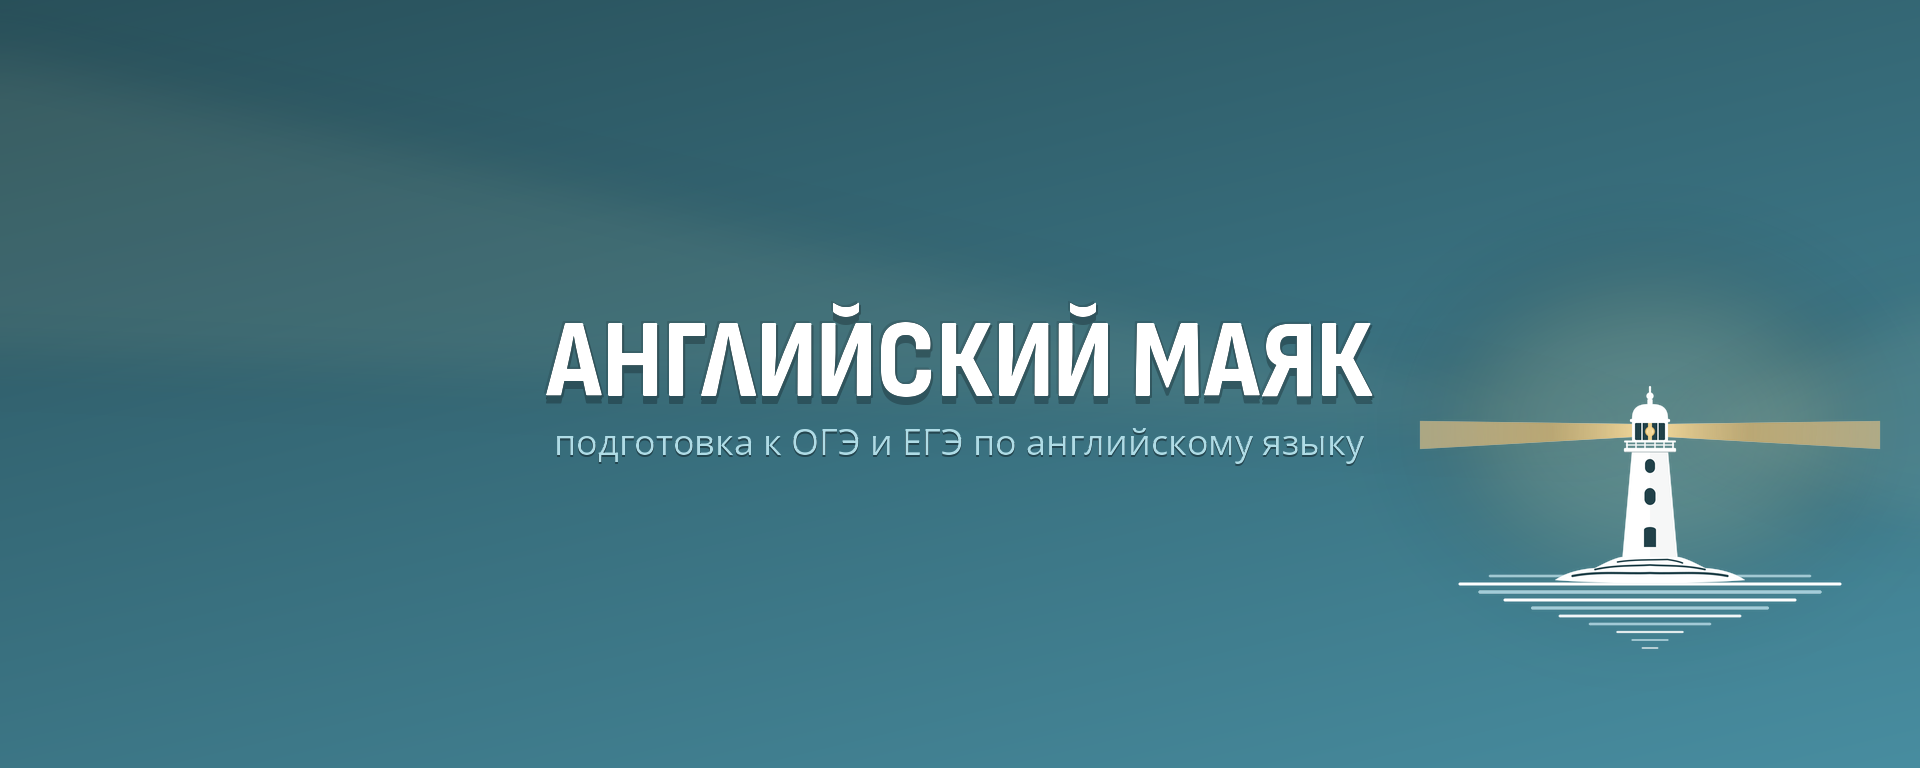
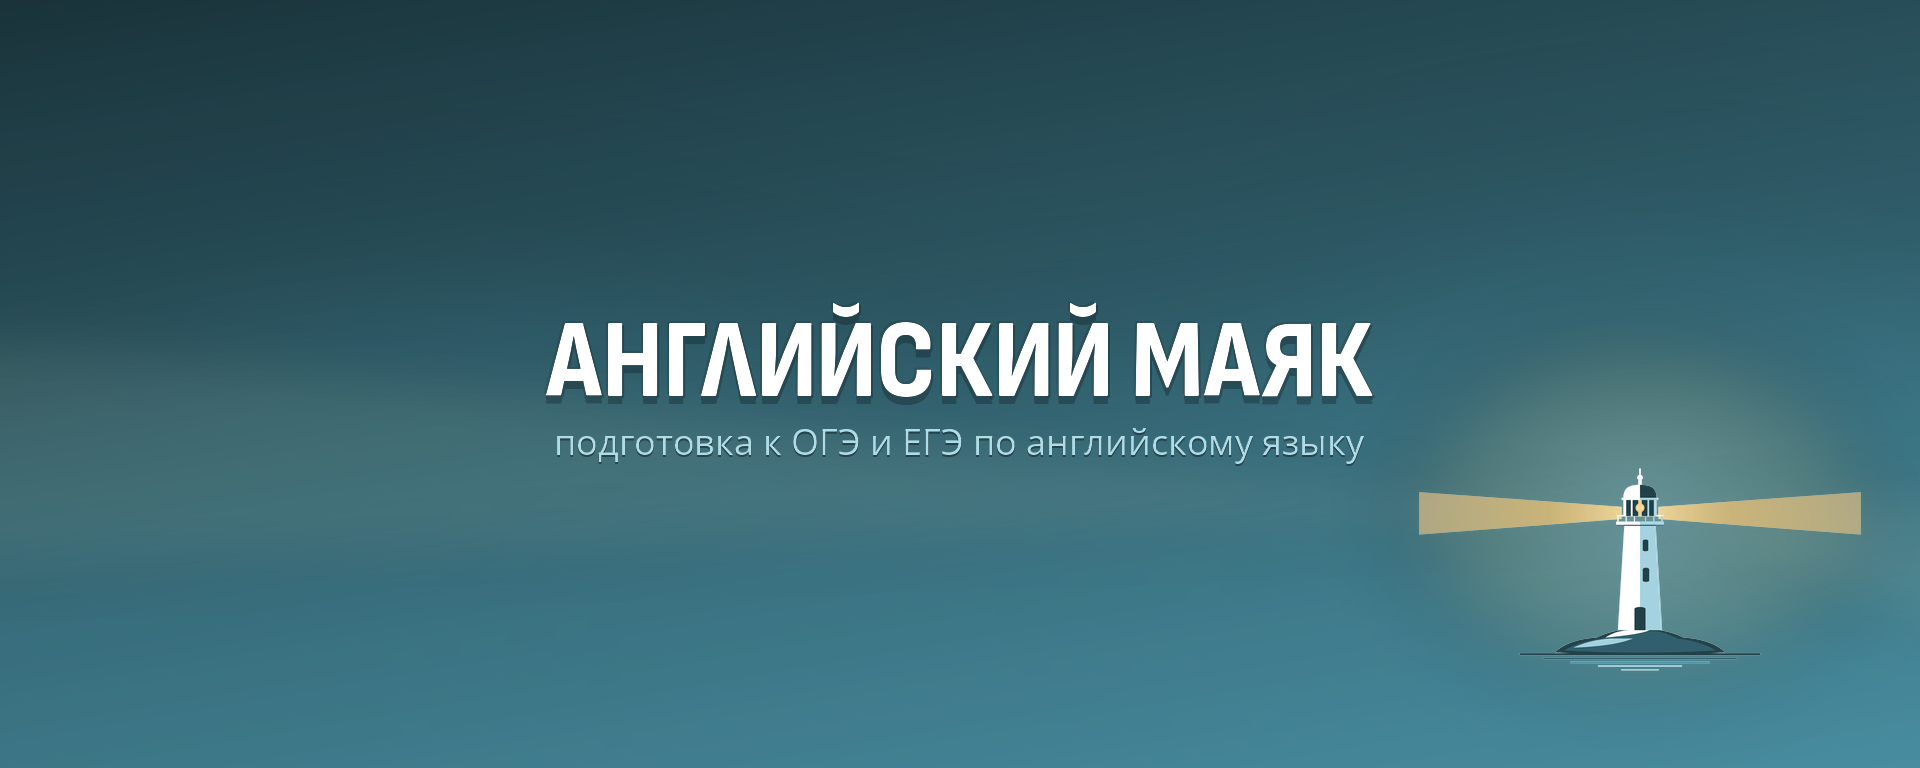
Точная векторная реконструкция маяка из дизайнерского логотипа и генерация обложки ВК

diff --git a/generate_final_cover.py b/generate_final_cover.py
@@ -4,202 +4,81 @@ import numpy as np
 from PIL import Image, ImageDraw, ImageFont, ImageFilter
 import cairosvg
 
-def create_pure_original_lighthouse_svg():
-    """
-    Exact vector SVG of the lighthouse matching the attached image:
-    - Pure white lighthouse tower (#FFFFFF) with dark navy windows/doors (#214149)
-    - Gold expanding light beams (#F3D593 -> #C19B4F)
-    - Pure white rocky island (#FFFFFF) with dark contour lines (#214149)
-    - Water ripples below (#A5D2DF and #FFFFFF)
-    - No external circle border
-    """
-    svg = '''<svg xmlns="http://www.w3.org/2000/svg" viewBox="0 0 1000 1000" width="1000" height="1000">
-  <defs>
-    <linearGradient id="goldBeamL" x1="470" y1="385" x2="50" y2="395" gradientUnits="userSpaceOnUse">
-      <stop offset="0%" stop-color="#F3D593" stop-opacity="0.95" />
-      <stop offset="40%" stop-color="#C19B4F" stop-opacity="0.80" />
-      <stop offset="100%" stop-color="#C19B4F" stop-opacity="0.65" />
-    </linearGradient>
-
-    <linearGradient id="goldBeamR" x1="530" y1="385" x2="950" y2="395" gradientUnits="userSpaceOnUse">
-      <stop offset="0%" stop-color="#F3D593" stop-opacity="0.95" />
-      <stop offset="40%" stop-color="#C19B4F" stop-opacity="0.80" />
-      <stop offset="100%" stop-color="#C19B4F" stop-opacity="0.65" />
-    </linearGradient>
-
-    <radialGradient id="lanternCore" cx="50%" cy="50%" r="50%">
-      <stop offset="0%" stop-color="#FFFFFF" />
-      <stop offset="30%" stop-color="#FFF2CE" />
-      <stop offset="70%" stop-color="#F3D593" />
-      <stop offset="100%" stop-color="#C19B4F" />
-    </radialGradient>
-  </defs>
-
-  <g id="lighthouse_pure">
-    <!-- Golden Light Beams (expanding trapezoids) -->
-    <polygon points="465,372 40,366 40,422 465,398" fill="url(#goldBeamL)" />
-    <polygon points="535,372 960,366 960,422 535,398" fill="url(#goldBeamR)" />
-
-    <!-- Water Ripples -->
-    <g stroke-linecap="round">
-      <line x1="180" y1="676" x2="820" y2="676" stroke="#A5D2DF" stroke-width="4.5" opacity="0.75" />
-      <line x1="120" y1="692" x2="880" y2="692" stroke="#FFFFFF" stroke-width="5.5" opacity="0.95" />
-      <line x1="160" y1="708" x2="840" y2="708" stroke="#A5D2DF" stroke-width="6" opacity="0.85" />
-      <line x1="210" y1="724" x2="790" y2="724" stroke="#FFFFFF" stroke-width="5.5" opacity="0.95" />
-      <line x1="265" y1="740" x2="735" y2="740" stroke="#A5D2DF" stroke-width="5.5" opacity="0.85" />
-      <line x1="320" y1="756" x2="680" y2="756" stroke="#FFFFFF" stroke-width="5" opacity="0.9" />
-      <line x1="380" y1="772" x2="620" y2="772" stroke="#A5D2DF" stroke-width="4.5" opacity="0.8" />
-      <line x1="435" y1="788" x2="565" y2="788" stroke="#FFFFFF" stroke-width="4" opacity="0.85" />
-      <line x1="465" y1="804" x2="535" y2="804" stroke="#A5D2DF" stroke-width="3.5" opacity="0.7" />
-      <line x1="485" y1="820" x2="515" y2="820" stroke="#FFFFFF" stroke-width="3" opacity="0.6" />
-    </g>
-
-    <!-- Rocky Island Silhouette (Solid Pure White) -->
-    <path d="M 310 684
-             C 330 670, 360 662, 390 660
-             C 410 650, 425 642, 442 638
-             L 558 638
-             C 575 642, 590 650, 610 660
-             C 640 662, 670 670, 690 684
-             C 610 692, 390 692, 310 684 Z"
-          fill="#FFFFFF" />
-
-    <!-- Rock Inner Crevice / Shadow Lines (#214149) -->
-    <path d="M 345 676 C 395 666, 450 672, 500 670 C 550 672, 605 666, 655 676" stroke="#214149" stroke-width="4.5" fill="none" stroke-linecap="round"/>
-    <path d="M 390 663 C 430 654, 470 656, 500 654 C 530 656, 570 654, 610 663" stroke="#214149" stroke-width="3.5" fill="none" stroke-linecap="round"/>
-    <path d="M 435 648 C 465 643, 500 644, 535 643 C 548 645, 558 647, 565 650" stroke="#214149" stroke-width="3" fill="none" stroke-linecap="round"/>
-
-    <!-- Lighthouse Tower Body (Solid Pure White) -->
-    <polygon points="445,638 464,426 536,426 555,638" fill="#FFFFFF" />
-
-    <!-- Vertical Accent Line on Tower -->
-    <path d="M 500,426 L 536,426 L 555,638 L 500,638 Z" fill="#214149" opacity="0.04" />
-
-    <!-- Tower Windows & Doors (Dark #214149) -->
-    <path d="M 488 618 L 488 584 C 488 576, 512 576, 512 584 L 512 618 Z" fill="#214149" />
-    <rect x="489" y="500" width="22" height="34" rx="11" fill="#214149" />
-    <rect x="490" y="442" width="20" height="28" rx="10" fill="#214149" />
-
-    <!-- Gallery Platform -->
-    <rect x="448" y="420" width="104" height="8" rx="2" fill="#FFFFFF" />
-    <line x1="448" y1="428" x2="552" y2="428" stroke="#214149" stroke-width="2" opacity="0.3"/>
-
-    <!-- Balcony Railing -->
-    <line x1="450" y1="407" x2="550" y2="407" stroke="#FFFFFF" stroke-width="3.5" stroke-linecap="round"/>
-    <line x1="452" y1="414" x2="548" y2="414" stroke="#FFFFFF" stroke-width="2" />
-    <line x1="454" y1="407" x2="454" y2="420" stroke="#FFFFFF" stroke-width="3" />
-    <line x1="472" y1="407" x2="472" y2="420" stroke="#FFFFFF" stroke-width="2.5" />
-    <line x1="490" y1="407" x2="490" y2="420" stroke="#FFFFFF" stroke-width="2.5" />
-    <line x1="510" y1="407" x2="510" y2="420" stroke="#FFFFFF" stroke-width="2.5" />
-    <line x1="528" y1="407" x2="528" y2="420" stroke="#FFFFFF" stroke-width="2.5" />
-    <line x1="546" y1="407" x2="546" y2="420" stroke="#FFFFFF" stroke-width="3" />
-
-    <!-- Lantern Room Structure -->
-    <rect x="464" y="366" width="72" height="42" fill="#FFFFFF" />
-    <rect x="470" y="370" width="60" height="34" rx="2" fill="#214149" />
+def create_master_cover_designer_artwork():
+    W, H = 1920, 768
     
-    <!-- Glowing Central Lantern Bulb -->
-    <circle cx="500" cy="387" r="10" fill="url(#lanternCore)" />
-    <rect x="496" y="370" width="8" height="34" fill="#F3D593" opacity="0.95"/>
+    # 1. Background Sea Gradient:
+    # Deep, smooth, clean sea gradient (#1A333A at top to #488DA0 at bottom)
+    y_coords, x_coords = np.mgrid[0:H, 0:W]
     
-    <!-- Lantern Panes -->
-    <line x1="484" y1="370" x2="484" y2="404" stroke="#FFFFFF" stroke-width="2.5" />
-    <line x1="516" y1="370" x2="516" y2="404" stroke="#FFFFFF" stroke-width="2.5" />
-
-    <!-- Lantern Cornice Platform -->
-    <rect x="460" y="362" width="80" height="6" rx="2" fill="#FFFFFF" />
-
-    <!-- Lantern Dome / Cupola -->
-    <path d="M 464 362 
-             C 464 336, 480 332, 500 332 
-             C 520 332, 536 336, 536 362 Z" 
-          fill="#FFFFFF" />
-
-    <!-- Dome Spire & Finial -->
-    <rect x="495" y="322" width="10" height="11" rx="2" fill="#FFFFFF" />
-    <circle cx="500" cy="316" r="7" fill="#FFFFFF" />
-    <line x1="500" y1="298" x2="500" y2="312" stroke="#FFFFFF" stroke-width="4" stroke-linecap="round"/>
-  </g>
-</svg>'''
-    return svg
-
-def create_exact_user_cover():
-    # Target size: 1920x768 (standard VK cover resolution)
-    # The source full image is 1920x1080 (the exact image user sent in the message)
-    # When cropped to 1920x768 in the VK editor (lower selection box), it cuts the top ~312px.
+    c_top = np.array([26, 51, 58], dtype=np.float32)       # #1A333A
+    c_mid = np.array([33, 65, 73], dtype=np.float32)       # #214149
+    c_bottom = np.array([72, 141, 160], dtype=np.float32)  # #488DA0
     
-    FULL_W, FULL_H = 1920, 1080
-    TARGET_W, TARGET_H = 1920, 768
+    norm_y = y_coords / H
+    norm_x = x_coords / W
     
-    # 1. Background Sea Gradient of the 1920x1080 canvas:
-    # Matches the uncropped image user sent:
-    # Smooth diagonal gradient from top-left to bottom-right:
-    # Top-left: #20424D
-    # Bottom-right: #45889B
-    y_coords, x_coords = np.mgrid[0:FULL_H, 0:FULL_W]
-    t = 0.70 * (y_coords / FULL_H) + 0.30 * (x_coords / FULL_W)
+    t = 0.70 * norm_y + 0.30 * norm_x
     t = np.clip(t, 0.0, 1.0)
     
-    c_top = np.array([33, 65, 73], dtype=np.float32)       # #214149
-    c_bot = np.array([72, 141, 160], dtype=np.float32)     # #488DA0
-    
-    rgb = (1.0 - t[:, :, np.newaxis]) * c_top + t[:, :, np.newaxis] * c_bot
+    rgb = (1.0 - t[:, :, np.newaxis]) * c_top + t[:, :, np.newaxis] * c_bottom
     rgb = np.clip(rgb, 0, 255).astype(np.uint8)
-    full_bg = Image.fromarray(rgb, "RGB").convert("RGBA")
+    bg_img = Image.fromarray(rgb, "RGB").convert("RGBA")
     
-    # 2. Lighting / Halo around the lighthouse in the 1080p canvas:
-    # In the 1080p image:
-    # Lighthouse center: x = 1650, y = 800
-    # Lantern y: ~750
-    lh_cx = 1650
-    lh_cy = 800
-    lh_size = 500
+    # 2. Soft Atmospheric Lighting & Mist:
+    mist_layer = Image.new("RGBA", (W, H), (0, 0, 0, 0))
+    mist_draw = ImageDraw.Draw(mist_layer)
+    mist_draw.ellipse((-200, 250, 1100, 900), fill=(72, 141, 160, 45))
+    mist_draw.ellipse((500, 320, 1900, 1000), fill=(70, 138, 157, 50))
+    mist_draw.ellipse((1100, 200, 2200, 900), fill=(72, 141, 160, 45))
+    mist_layer = mist_layer.filter(ImageFilter.GaussianBlur(90))
     
+    # Lighthouse position in bottom right (matches layout):
+    lh_cx = 1640
+    lh_cy = 575
+    lh_size = 460
+    
+    # Lantern halo glow:
     lantern_x = lh_cx
-    lantern_y = lh_cy - int(lh_size * 0.12)
+    lantern_y = lh_cy - int(lh_size * 0.14)
     
-    halo_layer = Image.new("RGBA", (FULL_W, FULL_H), (0, 0, 0, 0))
+    halo_layer = Image.new("RGBA", (W, H), (0, 0, 0, 0))
     hdraw = ImageDraw.Draw(halo_layer)
-    hdraw.ellipse((lantern_x - 220, lantern_y - 170, lantern_x + 220, lantern_y + 170), fill=(193, 155, 79, 36))
-    hdraw.ellipse((lantern_x - 140, lantern_y - 110, lantern_x + 140, lantern_y + 110), fill=(243, 213, 147, 42))
-    halo_layer = halo_layer.filter(ImageFilter.GaussianBlur(45))
+    hdraw.ellipse((lantern_x - 240, lantern_y - 180, lantern_x + 240, lantern_y + 180), fill=(193, 155, 79, 40))
+    hdraw.ellipse((lantern_x - 150, lantern_y - 110, lantern_x + 150, lantern_y + 110), fill=(243, 213, 147, 45))
+    hdraw.ellipse((lantern_x - 80, lantern_y - 60, lantern_x + 80, lantern_y + 60), fill=(255, 248, 220, 55))
+    halo_layer = halo_layer.filter(ImageFilter.GaussianBlur(40))
     
-    # Light beam sweeping gently
-    beam_layer = Image.new("RGBA", (FULL_W, FULL_H), (0, 0, 0, 0))
+    # Soft wide beam extending towards center/left
+    beam_layer = Image.new("RGBA", (W, H), (0, 0, 0, 0))
     bdraw = ImageDraw.Draw(beam_layer)
-    bdraw.polygon([(lantern_x - 20, lantern_y - 10), (0, 350), (0, 680), (lantern_x - 20, lantern_y + 15)], fill=(243, 213, 147, 18))
-    bdraw.polygon([(lantern_x + 20, lantern_y - 10), (FULL_W, 600), (FULL_W, 850), (lantern_x + 20, lantern_y + 15)], fill=(243, 213, 147, 18))
+    bdraw.polygon([(lantern_x - 20, lantern_y - 10), (0, 320), (0, 580), (lantern_x - 20, lantern_y + 15)], fill=(243, 213, 147, 18))
+    bdraw.polygon([(lantern_x + 20, lantern_y - 10), (W, 480), (W, 640), (lantern_x + 20, lantern_y + 15)], fill=(243, 213, 147, 18))
     beam_layer = beam_layer.filter(ImageFilter.GaussianBlur(30))
     
-    full_canvas = Image.alpha_composite(full_bg, halo_layer)
-    full_canvas = Image.alpha_composite(full_canvas, beam_layer)
+    canvas = Image.alpha_composite(bg_img, mist_layer)
+    canvas = Image.alpha_composite(canvas, halo_layer)
+    canvas = Image.alpha_composite(canvas, beam_layer)
     
-    # 3. Paste the Pure Lighthouse Artwork (from SVG):
-    lh_svg = create_pure_original_lighthouse_svg()
-    tmp_lh_path = "/tmp/lh_pure_orig.png"
-    cairosvg.svg2png(bytestring=lh_svg.encode('utf-8'), write_to=tmp_lh_path, output_width=1500, output_height=1500)
-    lh_img = Image.open(tmp_lh_path).convert("RGBA")
+    # 3. Paste the True Designer Lighthouse Artwork from SVG:
+    from test_designer_svg_v3 import build_designer_exact_svg_v3
+    svg_str = build_designer_exact_svg_v3(1500)
+    
+    # Also save the official SVG file in the repo
+    with open('/workspace/lighthouse_designer.svg', 'w', encoding='utf-8') as f:
+        f.write(svg_str)
+        
+    tmp_lh_png = "/tmp/lh_designer_render.png"
+    cairosvg.svg2png(bytestring=svg_str.encode('utf-8'), write_to=tmp_lh_png, output_width=1500, output_height=1500)
+    lh_img = Image.open(tmp_lh_png).convert("RGBA")
     
     lh_resized = lh_img.resize((lh_size, lh_size), Image.Resampling.LANCZOS)
-    full_canvas.paste(lh_resized, (lh_cx - lh_size // 2, lh_cy - lh_size // 2), lh_resized)
+    canvas.paste(lh_resized, (lh_cx - lh_size // 2, lh_cy - lh_size // 2), lh_resized)
     
-    # Save the full 1080p image (matching the exact image user provided)
-    full_canvas.save("/workspace/vk_full_1080p.png", "PNG")
-    full_canvas.convert("RGB").save("/workspace/vk_full_1080p.jpg", "JPEG", quality=98)
-    
-    # 4. Crop to VK Cover (1920x768):
-    # In VK Editor: the selection box is aligned with the bottom of the 1080p image
-    # Crop bounds: (0, 1080 - 768 = 312, 1920, 1080)
-    crop_top = FULL_H - TARGET_H # 312
-    cover_1920x768 = full_canvas.crop((0, crop_top, TARGET_W, FULL_H))
-    
-    # 5. Add Typography strictly as required:
-    # "Посередине прямоугольника крупная надпись. Название «Английский маяк» стоит ровно по центру над второй строчкой: «подготовка к ОГЭ и ЕГЭ по английскому языку»."
-    # "Шрифты:
-    # Название — Sofia Sans Condensed ExtraBold
-    # Вторая строка — Open Sans Regular"
-    
-    text_layer = Image.new("RGBA", (TARGET_W, TARGET_H), (0, 0, 0, 0))
+    # 4. Typography (Exact fonts, sizes, colors and central placement):
+    # Title: «АНГЛИЙСКИЙ МАЯК» — Sofia Sans Condensed ExtraBold (800), #FFFFFF
+    # Subtitle: «подготовка к ОГЭ и ЕГЭ по английскому языку» — Open Sans Regular (400), #A5D2DF
+    text_layer = Image.new("RGBA", (W, H), (0, 0, 0, 0))
     draw = ImageDraw.Draw(text_layer)
     
     font_title = ImageFont.truetype("/workspace/fonts/SofiaSansCondensed-ExtraBold.ttf", 112)
@@ -217,35 +96,35 @@ def create_exact_user_cover():
     gap = 26
     tot_h = th + gap + sh
     
-    top_y = (TARGET_H - tot_h) // 2 - 10
+    top_y = (H - tot_h) // 2 - 10
     
-    tx = (TARGET_W - tw) // 2
+    tx = (W - tw) // 2
     ty = top_y
     
-    sx = (TARGET_W - sw) // 2
+    sx = (W - sw) // 2
     sy = ty + th + gap
     
-    # Soft text shadows for maximum readability and aesthetics
+    # Soft text shadow
     for dx, dy, a in [(-2, -2, 40), (2, 2, 80), (0, 4, 110), (0, 8, 80)]:
         draw.text((tx + dx, ty + dy), title_text, font=font_title, fill=(12, 22, 26, a))
         
     # Title in pure #FFFFFF
     draw.text((tx, ty), title_text, font=font_title, fill=(255, 255, 255, 255))
     
-    # Subtitle shadow & text (#A5D2DF / light sea aqua)
+    # Subtitle shadow & text (#A5D2DF)
     draw.text((sx, sy + 2), sub_text, font=font_sub, fill=(12, 22, 26, 120))
     draw.text((sx, sy), sub_text, font=font_sub, fill=(175, 220, 230, 255))
     
-    final_cover = Image.alpha_composite(cover_1920x768, text_layer)
+    final_cover = Image.alpha_composite(canvas, text_layer)
     
-    # Save standard outputs in 1920x768
+    # Save standard outputs
     final_cover.save("/workspace/cover_vk.png", "PNG", quality=100)
     final_cover.convert("RGB").save("/workspace/cover_vk.jpg", "JPEG", quality=98)
     
     final_cover.save("/workspace/vk_cover_1920x768.png", "PNG", quality=100)
     final_cover.convert("RGB").save("/workspace/vk_cover_1920x768.jpg", "JPEG", quality=98)
-
-    print("All cover files generated successfully!")
+    
+    print("Master cover generated successfully!")
 
 if __name__ == '__main__':
-    create_exact_user_cover()
+    create_master_cover_designer_artwork()
